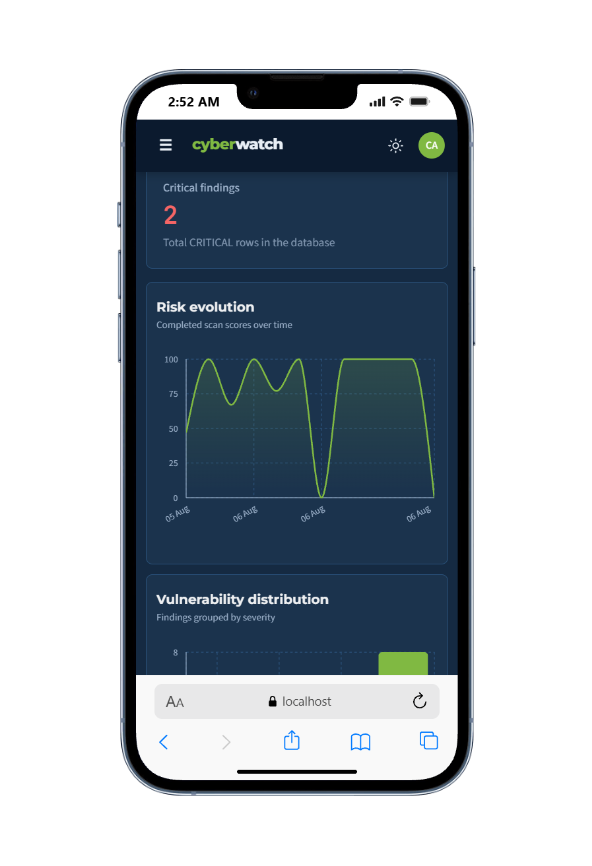
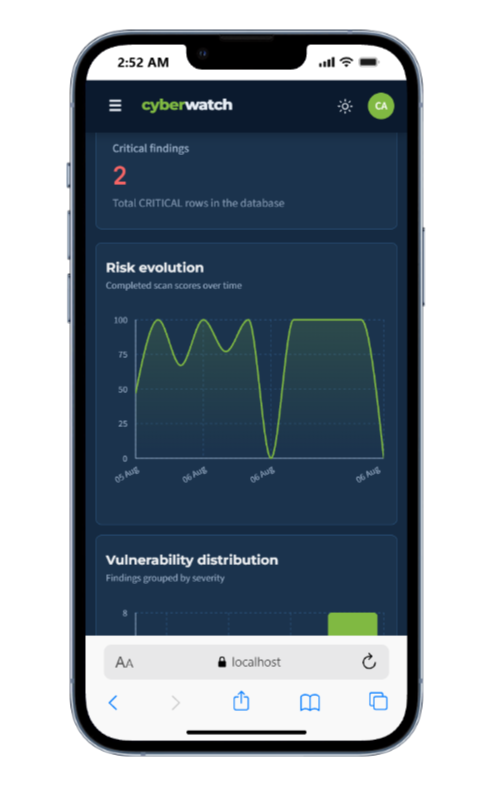
docs: center README tables

Changed region(s): [[0.121, 0.0306, 0.877, 0.9783], [0.3629, 0.5809, 0.4536, 0.6115]]

diff --git a/README.md b/README.md
@@ -124,6 +124,8 @@ Risk evolution and vulnerability distribution on a small screen.
 
 ## Status
 
+<div align="center">
+
 | Component | Status |
 |-----------|--------|
 | React frontend | **Done** |
@@ -135,6 +137,8 @@ Risk evolution and vulnerability distribution on a small screen.
 | Redis | [Planned](docs/PLANNED.md) |
 | Elasticsearch | [Planned](docs/PLANNED.md) |
 | CI/CD (GitHub Actions) | [Planned](docs/PLANNED.md) |
+
+</div>
 
 ---
 
@@ -178,10 +182,14 @@ flowchart TB
   WK -->|"update status + findings"| PG
 ```
 
+<div align="center">
+
 | Who | PostgreSQL role |
 |-----|-----------------|
 | **Go API** | Creates companies & scans · serves dashboard / lists / details |
 | **Python worker** | Updates scan status · writes vulnerabilities + risk score |
+
+</div>
 
 Same database — different operations.
 
@@ -198,6 +206,8 @@ flowchart LR
   API -.->|JWKS| KC
 ```
 
+<div align="center">
+
 | Service | Role | Port |
 |---------|------|------|
 | `frontend` | React UI (static build) | 5173 |
@@ -205,6 +215,8 @@ flowchart LR
 | `worker` | Python scanner (`python -m app.consumer` by default) | 8001\* |
 | `postgres` | Primary database | 5432 |
 | `rabbitmq` | Job queue + management UI | 5672 · 15672 |
+
+</div>
 
 \* Port `8001` is used when `SCAN_MODE=http` (uvicorn). With the default RabbitMQ consumer it is mapped but idle.
 
@@ -234,10 +246,14 @@ sequenceDiagram
   API->>FE: JSON response
 ```
 
+<div align="center">
+
 | Role | Permissions |
 |------|-------------|
 | `ADMIN` | Companies CRUD · create scans · view all |
 | `ANALYST` | View dashboard / companies / scans · create scans |
+
+</div>
 
 Setup guide: [`docs/KEYCLOAK.md`](docs/KEYCLOAK.md)
 
@@ -256,12 +272,18 @@ flowchart LR
 
 Statuses: `PENDING` → `QUEUED` → `RUNNING` → `COMPLETED` / `FAILED`
 
+<div align="center">
+
 | `SCAN_MODE` | Behavior |
 |-------------|----------|
 | `rabbitmq` (Compose default) | API publishes to RabbitMQ · worker runs `python -m app.consumer` |
 | `http` | API calls `WORKER_URL/jobs` · worker must run uvicorn |
 
+</div>
+
 ### API surface
+
+<div align="center">
 
 | Method | Path | Auth |
 |--------|------|------|
@@ -271,6 +293,8 @@ Statuses: `PENDING` → `QUEUED` → `RUNNING` → `COMPLETED` / `FAILED`
 | `GET/PUT/DELETE` | `/api/companies/:id` | JWT · write = ADMIN |
 | `GET/POST` | `/api/scans` | JWT · create = ADMIN or ANALYST |
 | `GET` | `/api/scans/:id` | JWT |
+
+</div>
 
 ### Data model
 
@@ -336,11 +360,15 @@ make start
 
 **3. Open**
 
+<div align="center">
+
 | URL | Service |
 |-----|---------|
 | http://localhost:5173 | Frontend |
 | http://localhost:8080/health | API health |
 | http://localhost:15672 | RabbitMQ UI |
+
+</div>
 
 **4. Stop / inspect**
 
